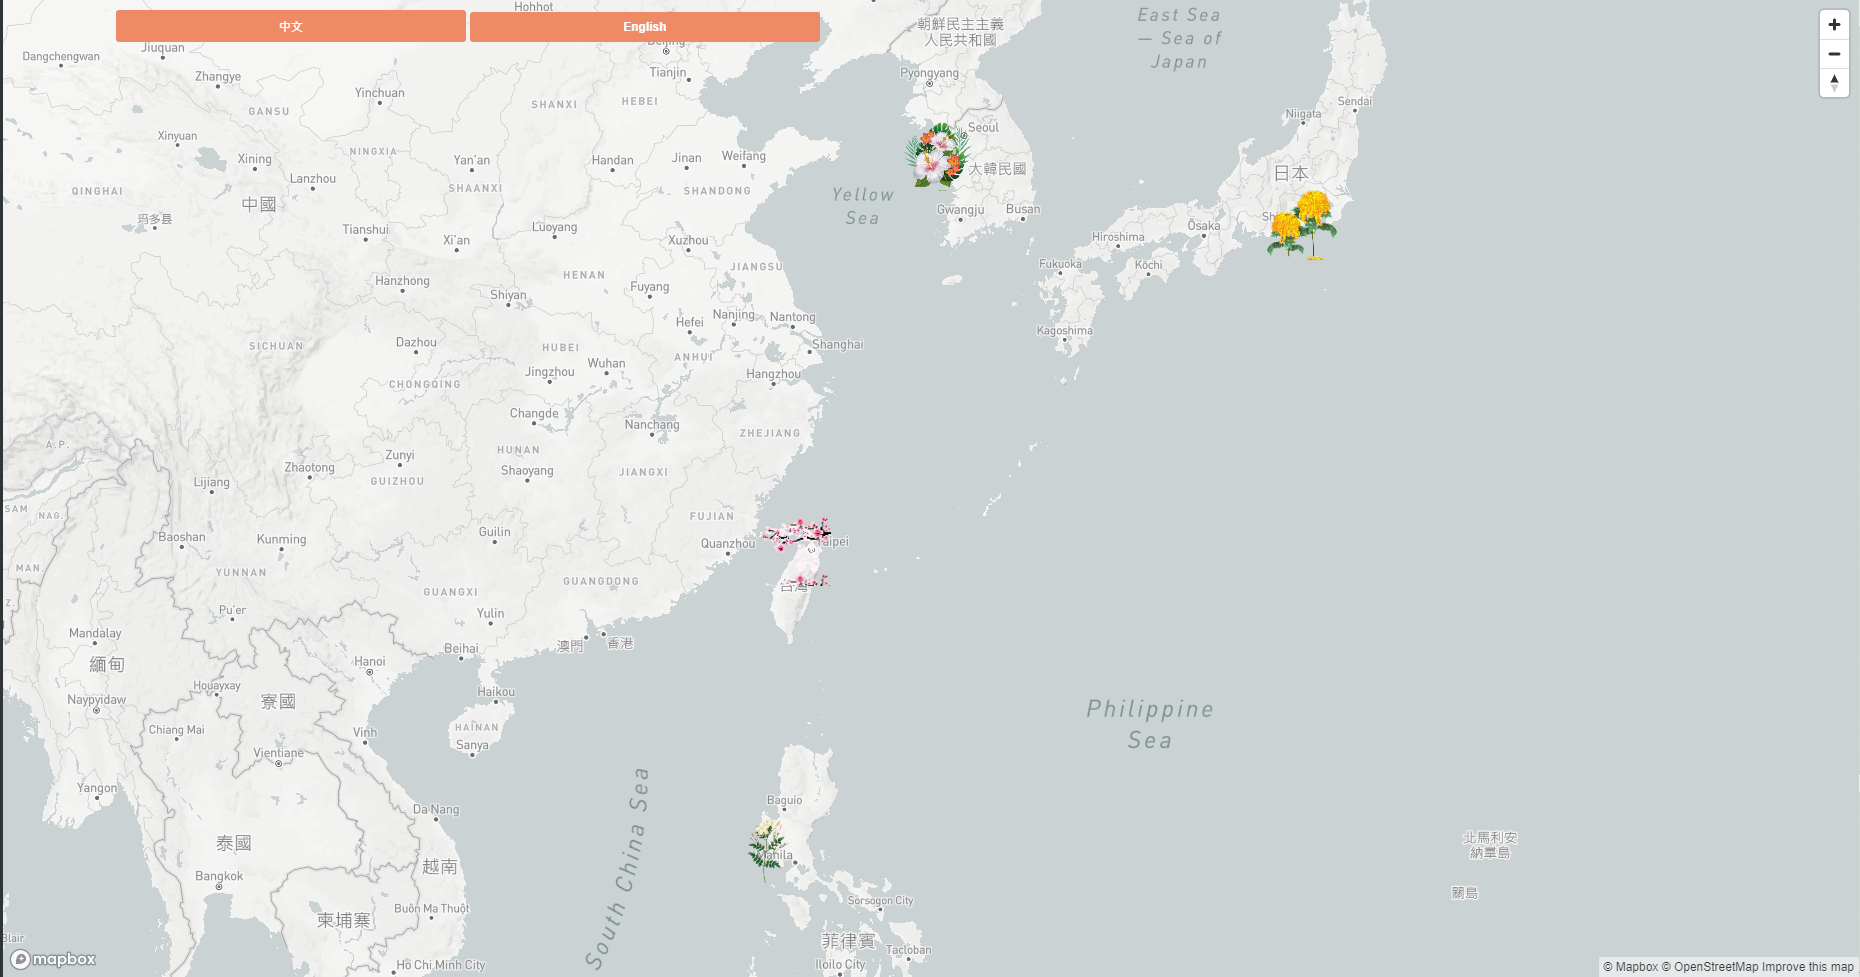
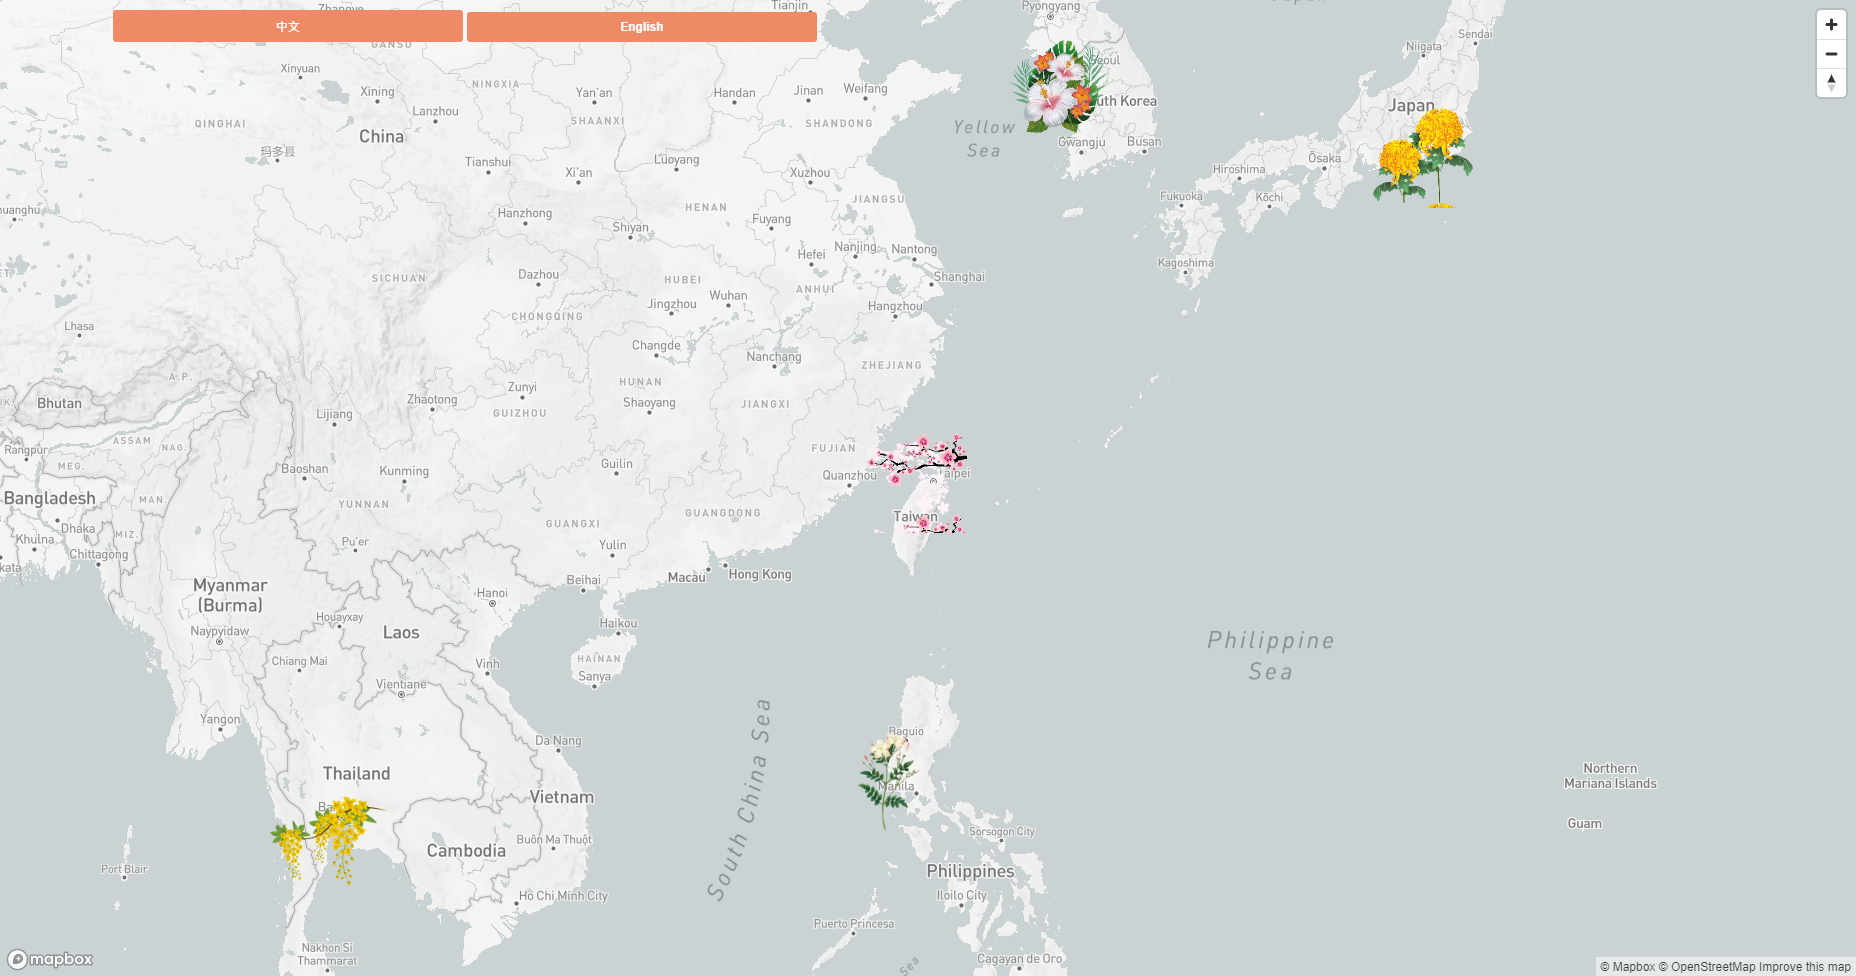
modify system pic

diff --git a/script.js b/script.js
@@ -41,7 +41,7 @@ function setupMap(center) {
         type: "Feature",
         properties: {
           message: "梅花（Prunus mume）",
-          iconSize: [70, 70],
+          iconSize: [100, 100],
         },
         geometry: {
           type: "Point",
@@ -52,7 +52,7 @@ function setupMap(center) {
         type: "Feature",
         properties: {
           message: "菊花(chrysanthemum)",
-          iconSize: [70, 70],
+          iconSize: [100, 100],
         },
         geometry: {
           type: "Point",
@@ -63,7 +63,7 @@ function setupMap(center) {
         type: "Feature",
         properties: {
           message: "木槿花(hibiscus)",
-          iconSize: [70, 70],
+          iconSize: [100, 100],
         },
         geometry: {
           type: "Point",
@@ -74,16 +74,33 @@ function setupMap(center) {
         type: "Feature",
         properties: {
           message: "茉莉花(jasmine)",
-          iconSize: [80, 80],
+          iconSize: [120, 120],
         },
         geometry: {
           type: "Point",
           coordinates: [120, 15],
         },
       },
+      {
+        type: "Feature",
+        properties: {
+          message: "金鍊花(golden shower tree)",
+          iconSize: [120, 120],
+        },
+        geometry: {
+          type: "Point",
+          coordinates: [100, 13],
+        },
+      },
     ],
   };
-  const imageArray = ["plum_blossom", "chrysanthemum", "hibiscus", "jasmine"];
+  const imageArray = [
+    "plum_blossom",
+    "chrysanthemum",
+    "hibiscus",
+    "jasmine",
+    "golden shower tree",
+  ];
 
   var i = 0;
   geojson.features.forEach(function (marker) {
